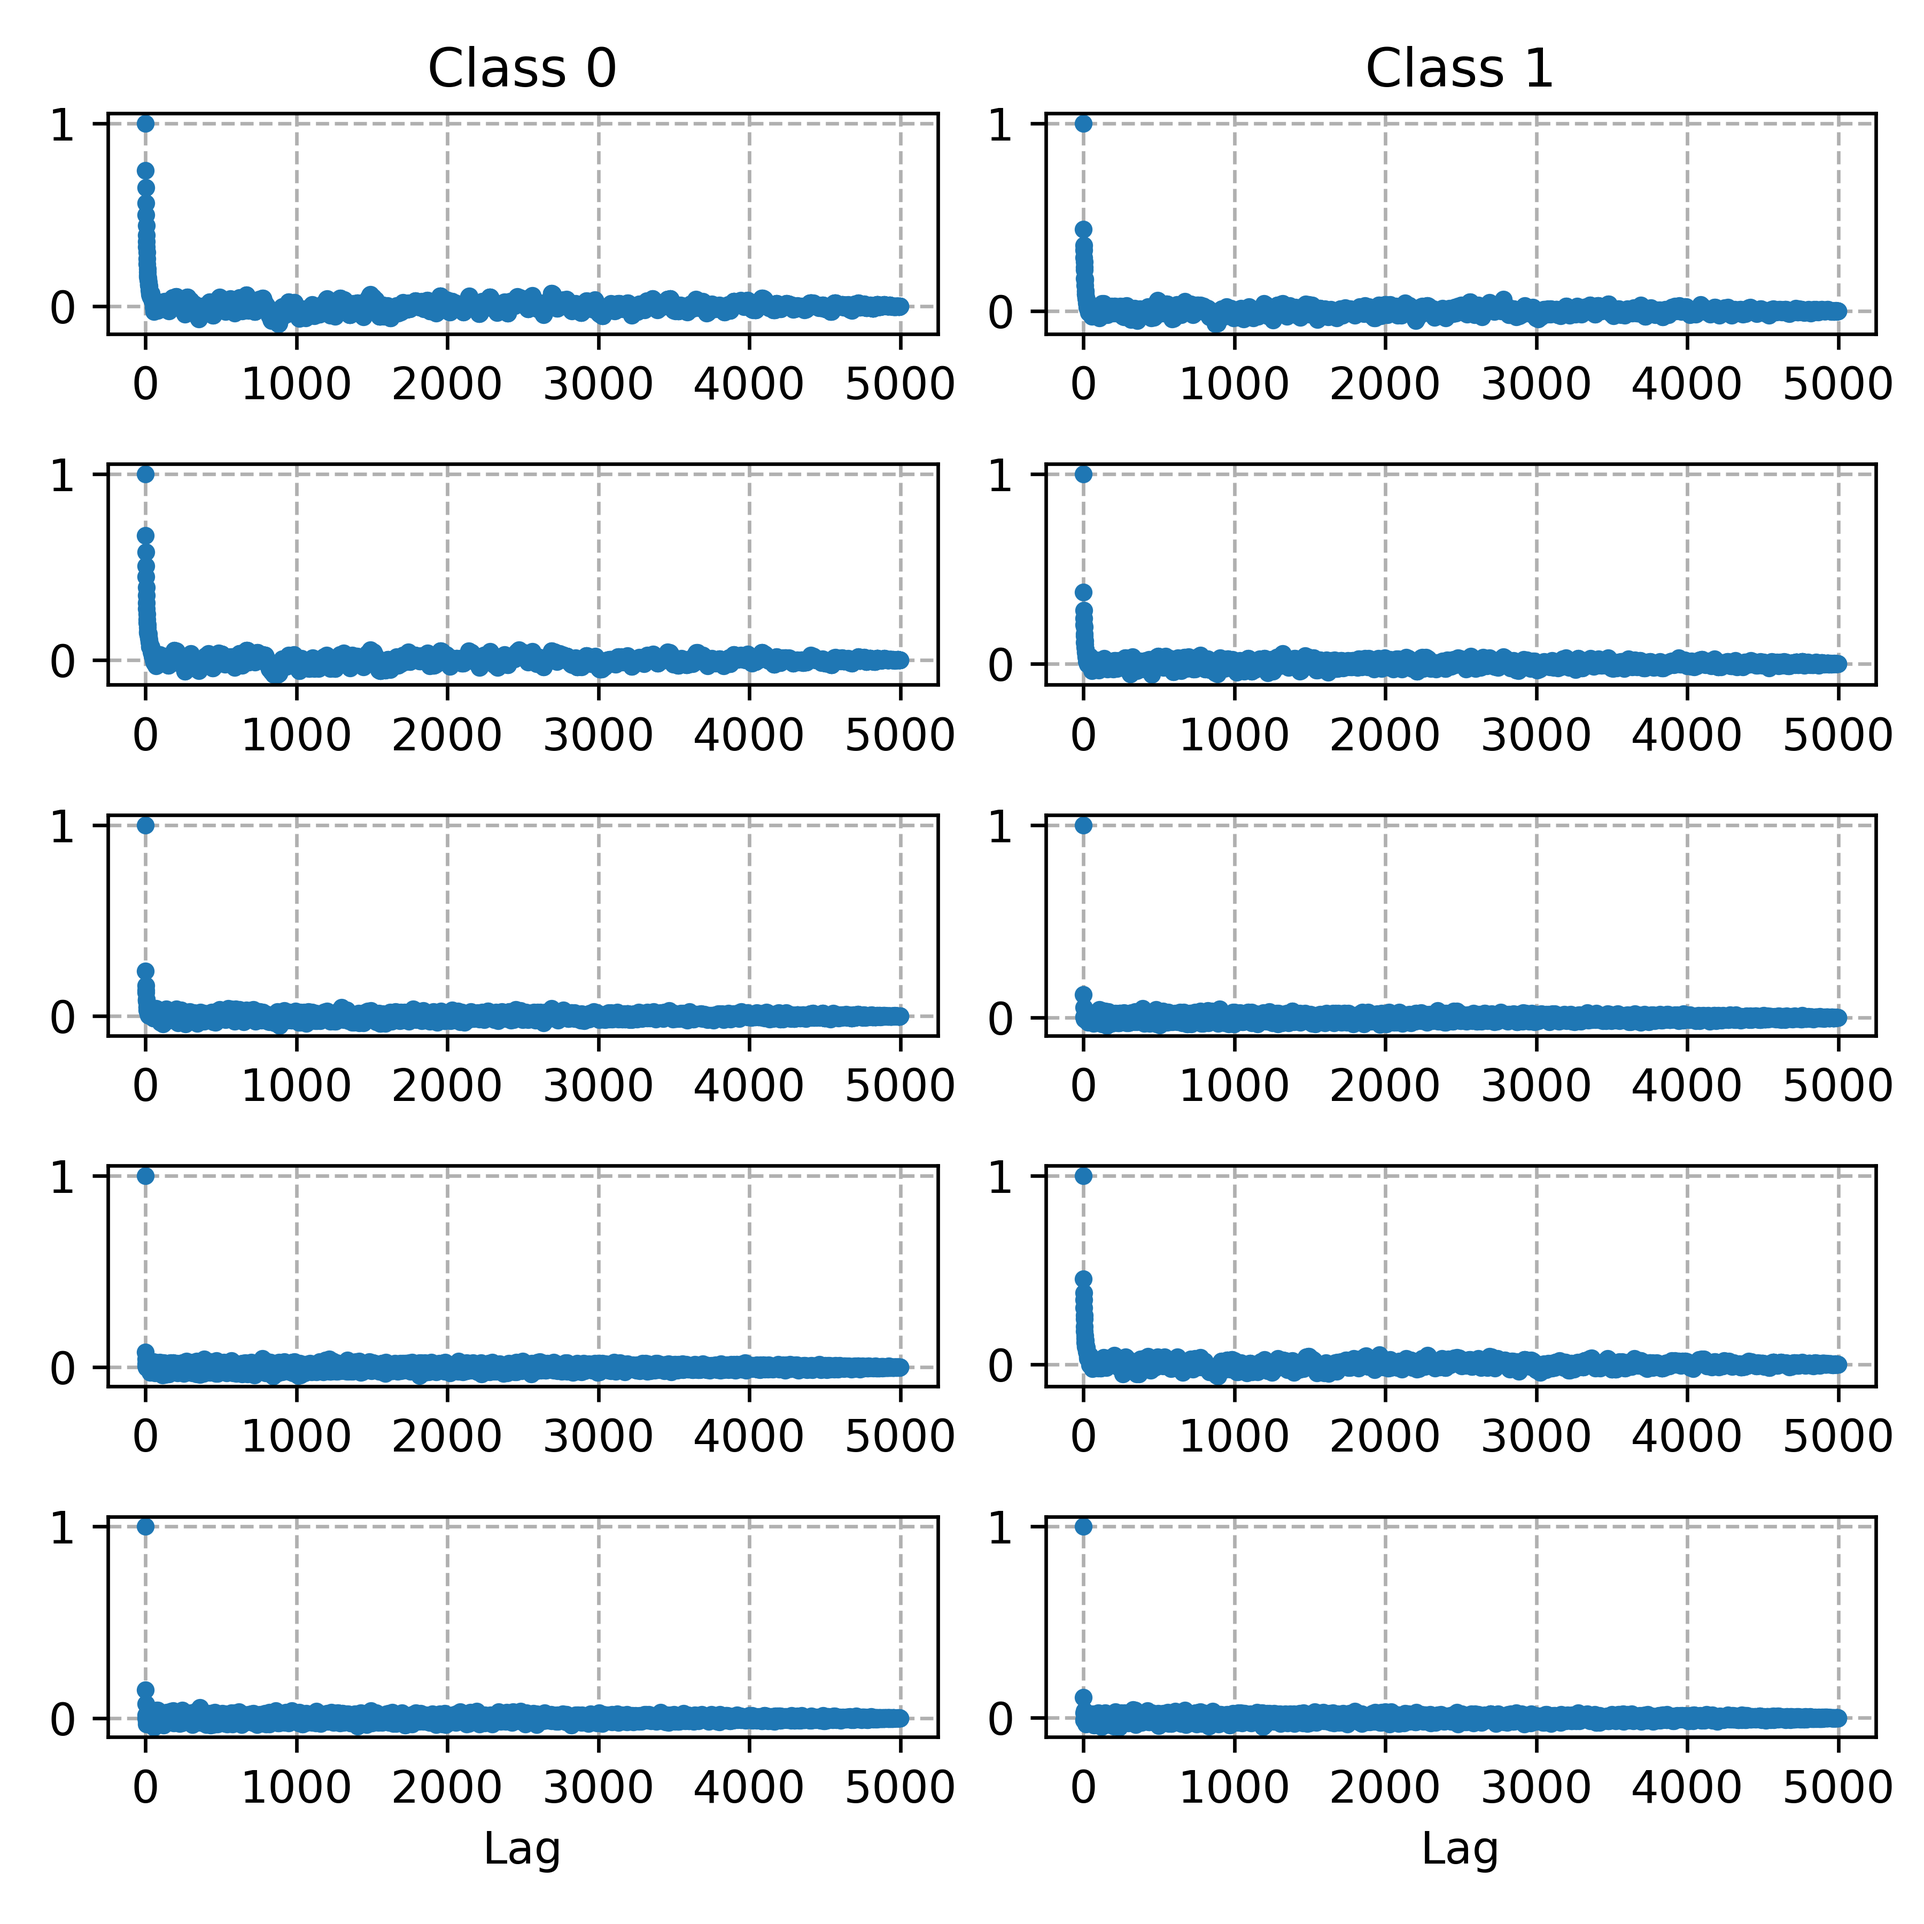
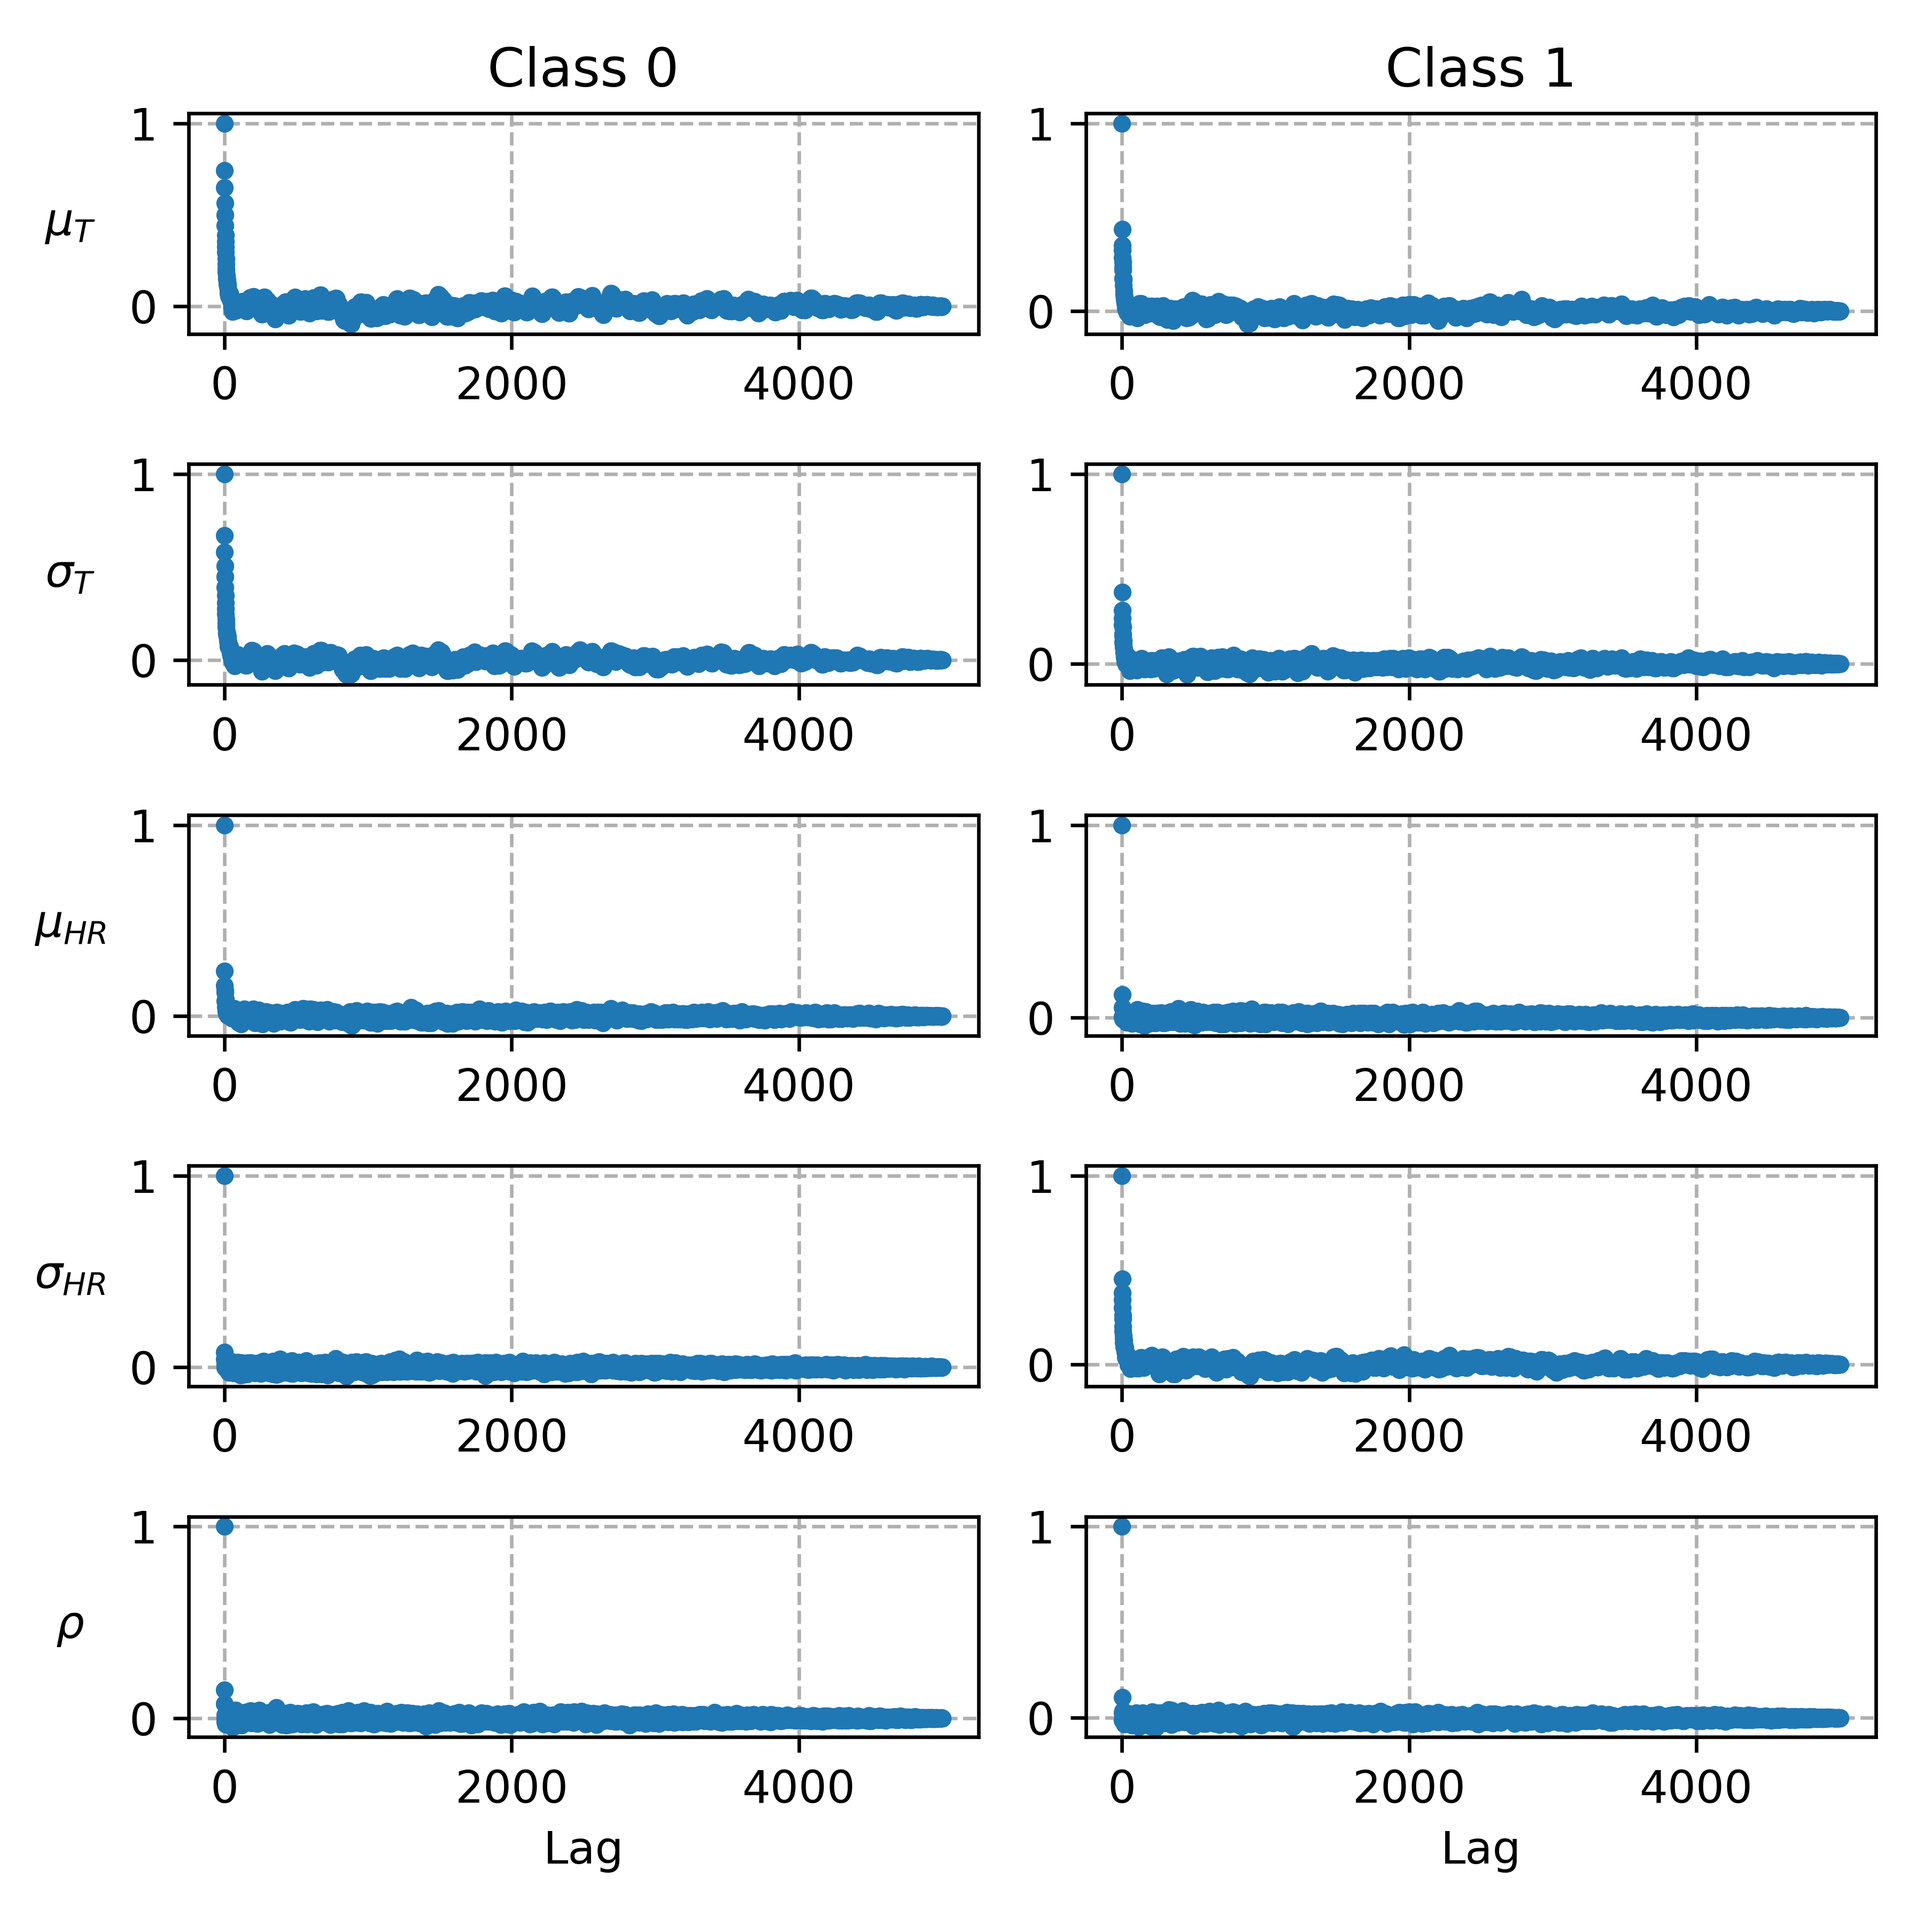
10/04: changed autocorr labels

diff --git a/GRB_class_1.py b/GRB_class_1.py
@@ -329,15 +329,13 @@ if __name__ == "__main__":
     
     # make the burn-in
     samples = samples[burnin:,:]
-
-    plt.close('all')
     
     # look at autocorrelation for theta
     fig3 = plt.figure("Parameters autocorrelation", figsize = (6,6))
     for i in range(samples.shape[1]):
         ax = fig3.add_subplot(5, 1, i+1)
         ax.plot(autocorrelation(samples[:,i]), '.', color = 'C0', label = 'Autocorr('+par_name[i]+')')
-        ax.text(-0.05, 0.5, par_name[i], horizontalalignment='center', verticalalignment='center', transform=ax.transAxes)
+        ax.text(-0.09, 0.5, par_name[i], horizontalalignment='center', verticalalignment='center', transform=ax.transAxes)
         ax.grid(linestyle = 'dashed')
         ax.set_axisbelow(True)
     ax.set_xlabel("Lag")
@@ -348,9 +346,9 @@ if __name__ == "__main__":
     for i in range(samples.shape[1]):
         ax = fig4.add_subplot(5, 1, i+1)
         autoc = autocorrelation(samples[:,i])
-        ax.plot(autoc, '.', color = 'C0', label = f'Value at thinning: {autoc[thinning]:.2f}')
+        ax.plot(autoc, '.', color = 'C0', label = f'At thinning: {autoc[thinning]:.2f}')
         ax.axvline(thinning, color = 'r', linestyle = 'dashed')
-        ax.text(-0.05, 0.5, par_name[i], horizontalalignment='center', verticalalignment='center', transform=ax.transAxes)
+        ax.text(-0.09, 0.5, par_name[i], horizontalalignment='center', verticalalignment='center', transform=ax.transAxes)
         ax.set_xlim(-10, 2 * thinning)
         ax.legend()
         ax.grid(linestyle = 'dashed')
@@ -358,8 +356,6 @@ if __name__ == "__main__":
     ax.set_xlabel("Lag")
     plt.tight_layout()
 
-    plt.show()
-    exit()
     
     # after burn-in and autocorrelation we plot the histograms of the parameters
     parameters = samples[::thinning,:]

diff --git a/GRB_class_5.py b/GRB_class_5.py
@@ -455,6 +455,9 @@ if __name__ == "__main__":
             # set x label if we are at the end
             if i+1 == len(parameters):
                 ax.set_xlabel("Lag")
+            # set label of parameter
+            if k == 0:
+                ax.text(-0.15, 0.5, par_name[i], horizontalalignment='center', verticalalignment='center', transform=ax.transAxes)
             ax.plot(autocorrelation(parameters[i]), '.', color = 'C0', label = 'Autocorrelation')
             ax.grid(linestyle = 'dashed')
             ax.set_axisbelow(True)
@@ -472,11 +475,14 @@ if __name__ == "__main__":
             # set x label if we are at the end
             if i+1 == len(parameters):
                 ax.set_xlabel("Lag")
+            # set label of parameter
+            if k == 0:
+                ax.text(-0.15, 0.5, par_name[i], horizontalalignment='center', verticalalignment='center', transform=ax.transAxes)
             # compute autocorr
             autoc = autocorrelation(parameters[i])
-            ax.plot(autoc, '.', color = 'C0', label = par_name[i]+f': {autoc[thinning]:.2f}')
+            ax.plot(autoc, '.', color = 'C0', label = f'At thinning: {autoc[thinning]:.2f}')
             ax.axvline(thinning, color='r', linestyle = 'dashed')
-            ax.set_xlim(-10, 2*thinning)
+            ax.set_xlim(-1, 2*thinning)
             ax.grid(linestyle = 'dashed')
             ax.set_axisbelow(True)
             ax.legend(fontsize='small')

diff --git a/GRB_class_1b.py b/GRB_class_1b.py
@@ -327,6 +327,7 @@ if __name__ == "__main__":
     for i in range(samples.shape[1]):
         ax = fig3.add_subplot(5, 1, i+1)
         ax.plot(autocorrelation(samples[:,i]), '.', color = 'C0', label = 'Autocorrelation')
+        ax.text(-0.09, 0.5, par_name[i], horizontalalignment='center', verticalalignment='center', transform=ax.transAxes)
         ax.grid(linestyle = 'dashed')
         ax.set_axisbelow(True)
     ax.set_xlabel("Lag")
@@ -337,8 +338,9 @@ if __name__ == "__main__":
     for i in range(samples.shape[1]):
         ax = fig4.add_subplot(5, 1, i+1)
         autoc = autocorrelation(samples[:,i])
-        ax.plot(autoc, '.', color = 'C0', label = f'Value at thinning: {autoc[thinning]:.2f}')
+        ax.plot(autoc, '.', color = 'C0', label = f'At thinning: {autoc[thinning]:.2f}')
         ax.axvline(thinning, color = 'r', linestyle = 'dashed')
+        ax.text(-0.09, 0.5, par_name[i], horizontalalignment='center', verticalalignment='center', transform=ax.transAxes)
         ax.set_xlim(-10, 2 * thinning)
         ax.legend()
         ax.grid(linestyle = 'dashed')
@@ -422,8 +424,8 @@ if __name__ == "__main__":
 
     # end of point: save, show or close all the open figures
     
-    plt.show()
-    exit()
+    #plt.show()
+    #exit()
 
     fig0.savefig(main_dir+"\\Results\\1b\\Err_Dataset.png", dpi = 600)
     fig1.savefig(main_dir+"\\Results\\1b\\Err_Parameters_chain.png", dpi = 600)
